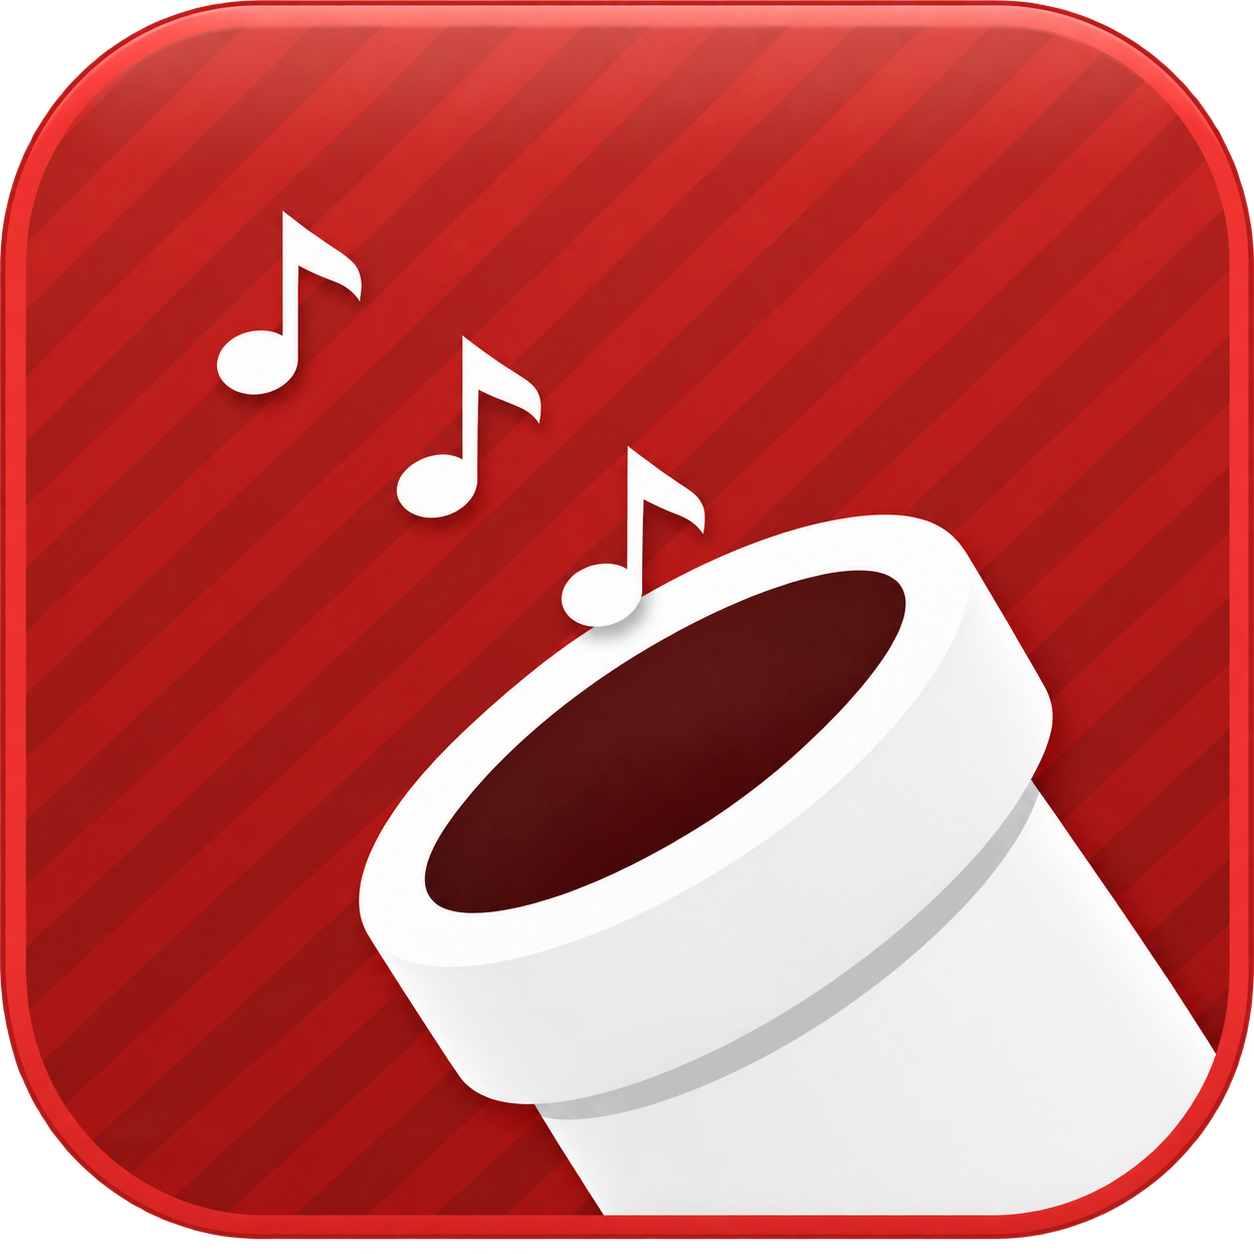
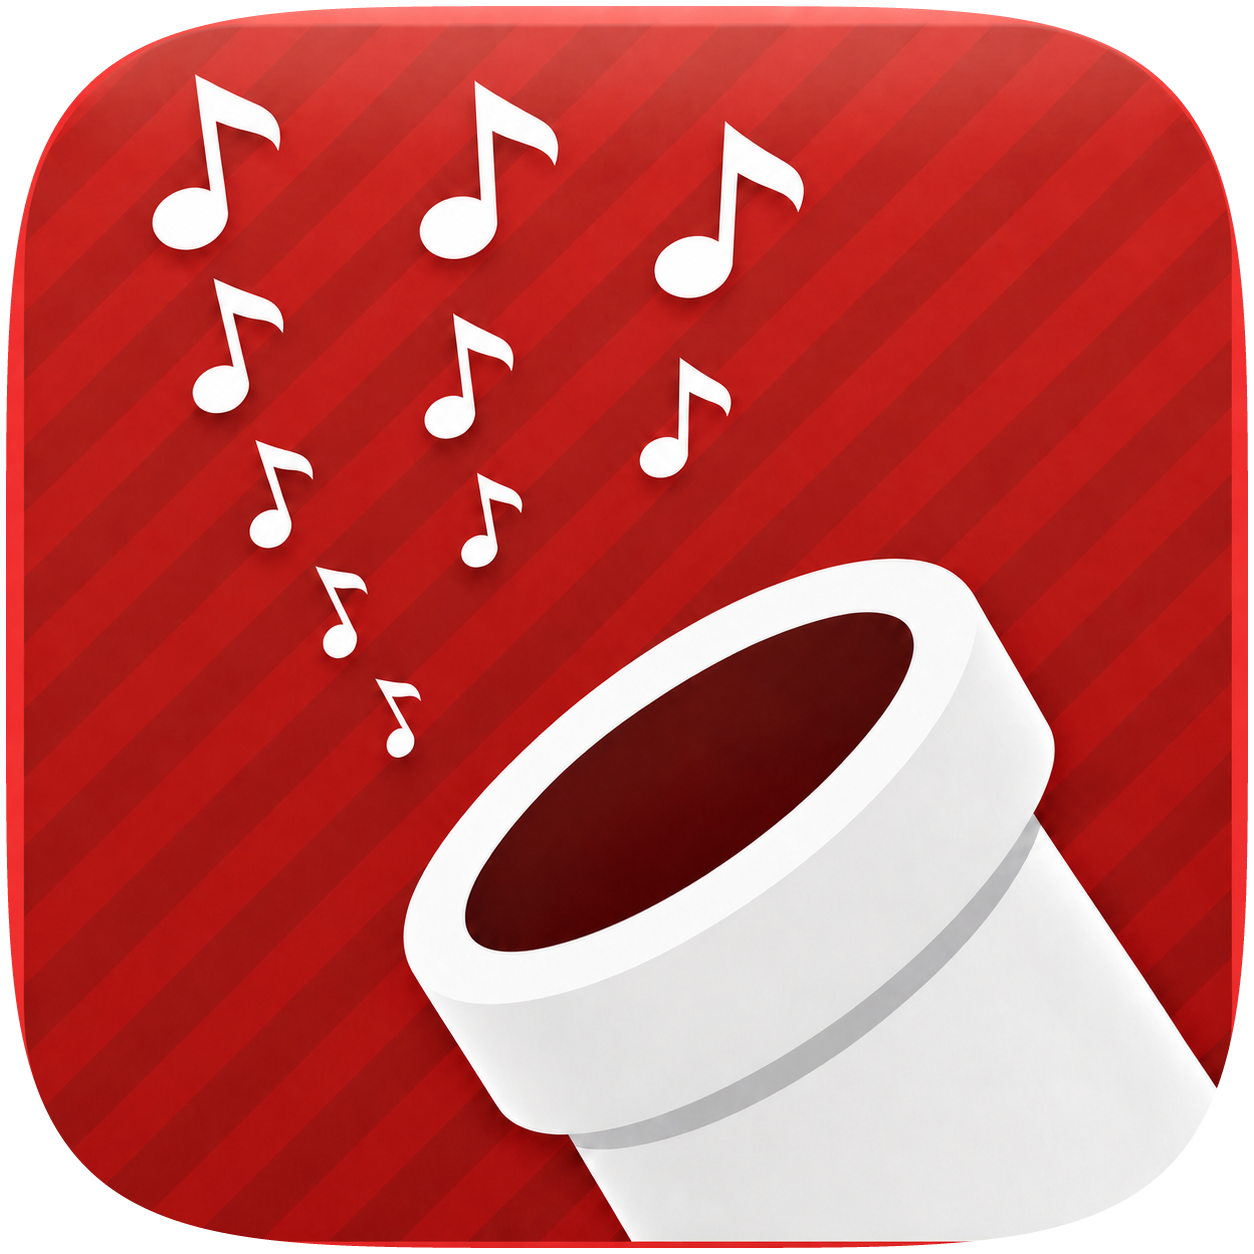
feat: add direct download button

diff --git a/docs/technical-notes.md b/docs/technical-notes.md
@@ -18,7 +18,11 @@ The build uses Theos, the official Apple iOS 6.1 SDK from Xcode 4.6.3, and Apple
 
 ## How the feature is attached
 
-`Sources/Tweak.xm` hooks `UIActionSheet showInView:` inside YouTube. It adds **Save Audio** to the action sheet used by the video action controller. The visible action button is the share-style arrow over the video.
+`Sources/Tweak.xm` adds a fourth button to YouTube's `YTVideoActionBarView`. It sits beside Like, Dislike, and Share and starts the same save workflow directly. The white download symbol is drawn with Core Graphics, so no extra image file is needed.
+
+The action bar stores its three original controls in the private `_buttons` array. It does not expose separate `likeButton`, `dislikeButton`, or `actionButton` properties. Read the array defensively, require three real `UIButton` objects, and then space all four buttons evenly. TubePod finds the live action-bar class when the view joins a window, hooks its layout method, and keeps YouTube's normal button behavior unchanged.
+
+TubePod also hooks `UIActionSheet showInView:` and adds **Save Audio** to the action sheet used by the video action controller. Keep this as a fallback if the direct button cannot be attached.
 
 Do not add the button to every action sheet. Check the delegate and make sure the current object exposes a usable video ID and stream first. Forward all normal button actions to YouTube's original delegate.
 
@@ -142,7 +146,7 @@ Old completed tracks with a real file location can usually be repaired. Read the
 
 ## Source layout
 
-- `Sources/Tweak.xm` is the YouTube integration/UI area: it finds video metadata, adds the action-sheet button, and owns user-facing alerts and session routing.
+- `Sources/Tweak.xm` is the YouTube integration/UI area: it finds video metadata, adds the direct download button and action-sheet fallback, and owns user-facing alerts and session routing.
 - `Sources/TPDownloader.h/.m` is the download pipeline: it downloads, resumes, validates, converts, and preserves files on failure.
 - `Sources/TPBridge.h/.m` is the shared bridge protocol: typed command/status messages, ownership, validation, serialization, tokens, and size limits.
 - `Sources/TPImporter.h/.m` is the Music import pipeline: staging, transaction orchestration, cancellation, repair, cleanup, and the atomic retry ledger.
@@ -162,7 +166,7 @@ make clean package FINALPACKAGE=1
 
 Check the resulting dylib for `LC_VERSION_MIN_IPHONEOS 6.0` before installing it. Install the rootful package with `dpkg -i`, then restart both YouTube and `Music~iphone`.
 
-Version `0.0.1` was the first beta release and the first build confirmed to complete the full download, handoff, StoreServices import, metadata repair, and playback cycle. `0.0.2~beta2` added delayed placeholder cleanup and refreshed MediaPlayer's current library cache. The prepared hardening package is `0.0.3~beta1`, adding session routing, the owned three-channel bridge, checked runtime signatures, album-constrained queries, the 24 MiB limit, and persistent retry idempotency. Device acceptance still requires the complete regression below. Alpha9 added the post-import MusicLibrary repair. Alpha10 added clear download/import phases, background time, and placeholder cleanup. Alpha11 added StoreServices queue cancellation and local handoff logging. Alpha12 proved that the live loopback handoff was unreliable. Alpha13 introduced the working named-pasteboard handoff. Alpha8's direct MusicLibrary importer experiment must not be restored.
+Version `0.0.1` was the first beta release and the first build confirmed to complete the full download, handoff, StoreServices import, metadata repair, and playback cycle. `0.0.2~beta2` added delayed placeholder cleanup and refreshed MediaPlayer's current library cache. `0.0.3~beta1` added session routing, the owned three-channel bridge, checked runtime signatures, album-constrained queries, the 24 MiB limit, and persistent retry idempotency. `0.0.4~beta2` adds the direct video-control download button and the local legacy Cydia package icon. Device acceptance still requires the complete regression below. Alpha9 added the post-import MusicLibrary repair. Alpha10 added clear download/import phases, background time, and placeholder cleanup. Alpha11 added StoreServices queue cancellation and local handoff logging. Alpha12 proved that the live loopback handoff was unreliable. Alpha13 introduced the working named-pasteboard handoff. Alpha8's direct MusicLibrary importer experiment must not be restored.
 
 The first `0.0.3~beta1` device regression completed on 2026-08-23. A fresh download of “Revenge” imported as one completed record with a purchase-file location, 44,100 Hz sample rate, 11,665,408 audio samples, and 128 kbps bitrate. The TubePod placeholder count was zero. Playback from the start, seeking, and playing another known-good song afterward all worked.
 
@@ -171,7 +175,7 @@ The first `0.0.3~beta1` device regression completed on 2026-08-23. A fresh downl
 A build is not proven by a successful compilation, a StoreServices acceptance result, or a title appearing in Music. Test this whole sequence on the iPod:
 
 1. Start with a song that is not already in Music.
-2. Use **Save Audio** and confirm that the percentage changes to **Adding to Music**.
+2. Use the direct download button and confirm that the percentage changes to **Adding to Music**. Repeat through **Save Audio** in the Share menu when checking the fallback.
 3. Stay in Music until TubePod shows its final Saved message.
 4. Confirm that exactly one completed song exists and no empty duplicate remains.
 5. Play from the start and seek into the middle.

diff --git a/README.md b/README.md
@@ -4,41 +4,36 @@
 
 # TubePod
 
-TubePod brings audio from the classic YouTube app into the Music app on iOS 6. Open a video, tap **Save Audio**, and let TubePod handle the rest.
+TubePod turns your legacy iOS device into a capable offline music player by adding a quick way to save YouTube audio directly to the Music library.
 
-## Dependencies
+## What you need
 
 - A jailbroken armv7 device running iOS 6.0–6.1.6
 - MobileSubstrate
-- YouTube 1.4.0 (`com.google.ios.youtube`)
-- A way to install a `.deb`, such as iFile or OpenSSH
+- YouTube 1.4.0 (support for other versions may come later), available through [Veteris](https://github.com/victorlobe/Veteris) or find an IPA
+- [TubeReplacer](https://github.com/Preloading/TubeReplacer) to make the classic YouTube app work again
 
-## Installation
+Veteris requires AppSync Unified.
 
-There is no Cydia repository yet. For now, download the latest `.deb` directly from [Releases](https://github.com/pruefsumme/TubePod/releases) and install it with iFile or as root over SSH:
+## Setup
 
-```sh
-dpkg -i /path/to/TubePod.deb
-killall YouTube 2>/dev/null || true
-```
+1. Install YouTube 1.4.0.
+2. Install TubeReplacer.
+3. Add `http://cydia.pruefsumme.xyz` to Cydia and install TubePod.
 
-Open YouTube, choose a video, tap the share-style action button, and select **Save Audio**. Keep YouTube open while it downloads, then stay in Music until the import finishes.
+## How it works
 
-## Building
+Open a video and tap the white download arrow beside Like, Dislike, and Share. Keep YouTube open while the file downloads, then stay in Music until TubePod says it was saved. **Save Audio** in the Share menu is available as a fallback.
 
-Building requires Theos and the official iOS 6.1 SDK from Xcode 4.6.3.
-
-```sh
-make package FINALPACKAGE=1
-```
-
-## Notes
-
-TubePod is made for YouTube 1.4.0 and iOS 6. Other versions are not supported yet. If Music skips a newly added song, select it again or rebuild the current Music queue.
-
-The development notes and device findings are in [docs/technical-notes.md](docs/technical-notes.md).
+<p align="center">
+  <img src="assets/tubepod-download-button.png" width="320" alt="TubePod download button in YouTube 1.4.0">
+</p>
 
 Only download audio you own or have permission to save.
+
+## Development
+
+Building requires Theos and the official iOS 6.1 SDK from Xcode 4.6.3. Device findings are kept in [docs/technical-notes.md](docs/technical-notes.md).
 
 ## License
 

diff --git a/CHANGELOG.md b/CHANGELOG.md
@@ -2,6 +2,14 @@
 
 ## Unreleased
 
+## 0.0.4-beta2 - 2026-08-23
+
+- Adds a download button beside Like, Dislike, and Share in YouTube's video controls.
+- Keeps **Save Audio** in the Share menu as a fallback.
+- Bundles the TubePod icon so it appears in legacy Cydia after installation.
+
+## 0.0.4-beta1 - 2026-08-23
+
 - Downloads the YouTube thumbnail and crops it to a square 600 px cover.
 - Embeds the cover into the M4A without re-encoding its AAC audio.
 - Registers the embedded JPEG in Music's artwork cache after StoreServices creates the track.
